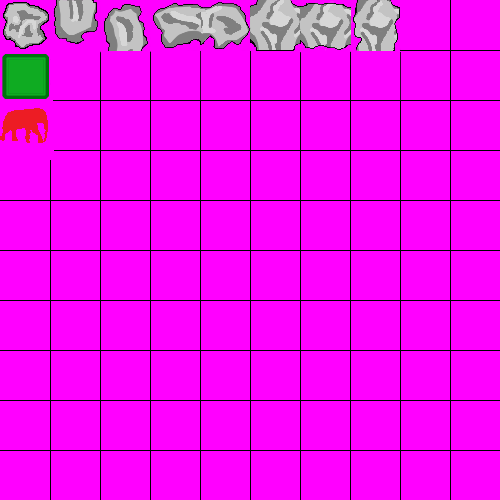
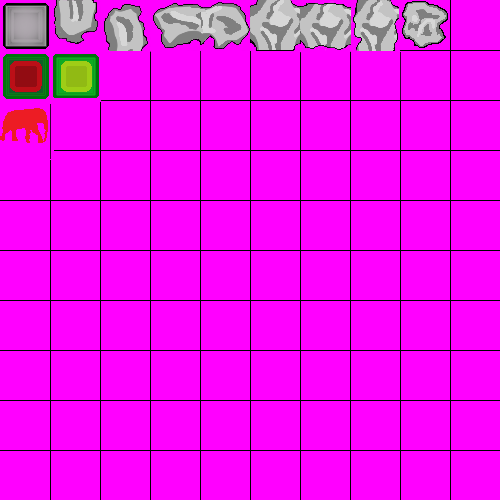
Add: Blokady w generowaniu się elementów i wykrywanie kolizji. Poprawki wizualne.

Changed region(s): [[0.0, 0.0, 0.21, 0.21], [0.78, 0.0, 0.9, 0.09]]

diff --git a/03_Python/Python/src/com/game/SinglePlay.java b/03_Python/Python/src/com/game/SinglePlay.java
@@ -9,27 +9,44 @@ public class SinglePlay extends GameState {
 
     private static final int MAX_X=10;
     private static final int MAX_Y=10;
+    private static final int SNAKE_SPEED = 300;
+    private static final int STONES_QUONTITY = 5;
 
+    //Sprajty:
     private static final Sprite allone_stone = new Sprite(0,0,50,mainSpriteSheet);
-    private static final Sprite allone_snake = new Sprite(0,1,50,mainSpriteSheet);
+    private static final Sprite up_stone = new Sprite(1,0,50,mainSpriteSheet);
+    private static final Sprite down_stone = new Sprite(2,0,50,mainSpriteSheet);
+    private static final Sprite left_stone = new Sprite(4,0,50,mainSpriteSheet);
+    private static final Sprite right_stone = new Sprite(3,0,50,mainSpriteSheet);
+    private static final Sprite all_stone = new Sprite(5,0,50,mainSpriteSheet);
+    private static final Sprite left_right_stone = new Sprite(6,0,50,mainSpriteSheet);
+    private static final Sprite up_down_stone = new Sprite(7,0,50,mainSpriteSheet);
+
+    private static final Sprite head_snake = new Sprite(0,1,50,mainSpriteSheet);
+    private static final Sprite _snake = new Sprite(1,1,50,mainSpriteSheet);
     private static final Sprite papu = new Sprite(0,2,50,mainSpriteSheet);
 
     private Python python = new Python();
+    private Stones stones = new Stones();
     private Random generator = new Random();
-    private Coordinates papuCoordinates = new Coordinates(2,2);
+    private Coordinates papuCoordinates = new Coordinates(-20,-20);
 
     private double nextMoveTime = System.currentTimeMillis();
 
     public SinglePlay(){
+        //Generowanie wenża:
         python.AddNewCoordinates(4,6);
         python.AddNewCoordinates(4,5);
         python.AddNewCoordinates(4,4);
-
+        //Generowanie przeszkód:
+        GenerateRandomStone(STONES_QUONTITY);
+        //Generowanie papu
+        GeneratePapu();
     }
     public void Update(){
-        if(System.currentTimeMillis()-nextMoveTime >= 200) {
+        UpdateKaybord(); //Odczytanie klawiszy
+        if(System.currentTimeMillis()-nextMoveTime >= SNAKE_SPEED) {
             nextMoveTime = System.currentTimeMillis();
-            UpdateKaybord(); //Odczytanie klawiszy
             SnakeMove(); //Ruch wenża
             if(DetectColision()) { //Sprawdzenie kolizji
                 while (System.currentTimeMillis() - nextMoveTime <= 3000);
@@ -42,72 +59,122 @@ public class SinglePlay extends GameState {
         singlePlayScreen.clear(Color.BLACK.getRGB());
         DrawSnake(singlePlayScreen);
         DrawPapu(singlePlayScreen);
+        DrawStones(singlePlayScreen);
     }
 
 
     private void DrawSnake(Screen singlePlayScreen){
         //Rysowanie wenża:
-        for (Coordinates cor: python.body)
-        {
-            singlePlayScreen.RenderSprite(cor.X*50, cor.Y*50, allone_snake);
+        for (int i = 0; i < python.body.size(); i++) {
+            if(i < python.body.size()-1)
+                singlePlayScreen.RenderSprite(python.body.get(i).X * 50, python.body.get(i).Y * 50, _snake);
+            else
+                singlePlayScreen.RenderSprite(python.body.get(i).X*50, python.body.get(i).Y*50, head_snake);
         }
     }
     private void DrawPapu(Screen singlePlayScreen){
         //Rysowanie papu:
             singlePlayScreen.RenderSprite(papuCoordinates.X*50, papuCoordinates.Y*50, papu);
     }
-private void  UpdateKaybord(){
+
+    private void DrawStones(Screen singlePlayScreen){
+        //Rysowanie kumieni:
+        for(Coordinates coor: stones.body) {
+            singlePlayScreen.RenderSprite(coor.X * 50, coor.Y * 50, allone_stone);
+        }
+    }
+
+    private void  UpdateKaybord(){
     //Aktualizacja kierunku
     if(Keyboard.keys[KeyEvent.VK_UP] && python.actualDirection != 2)
-        python.actualDirection = 1;
+        python.newActualDirection = 1;
     if(Keyboard.keys[KeyEvent.VK_DOWN] && python.actualDirection != 1)
-        python.actualDirection = 2;
+        python.newActualDirection = 2;
     if(Keyboard.keys[KeyEvent.VK_LEFT] && python.actualDirection != 4)
-        python.actualDirection = 3;
+        python.newActualDirection = 3;
     if(Keyboard.keys[KeyEvent.VK_RIGHT] && python.actualDirection != 3)
-        python.actualDirection = 4;
+        python.newActualDirection = 4;
 }
+
+    private void GenerateRandomStone(int quontity){
+        int temp_X = 0,temp_Y = 0;
+
+        for(int q =0; q<quontity; q++) {
+            boolean corect = false;
+            while (corect == false) {
+                temp_X = generator.nextInt(9);
+                temp_Y = generator.nextInt(9);
+                corect = true;
+                for (int i = 0; i < python.body.size() - 1; i++) {
+                    if (temp_X == python.body.get(i).X && temp_Y == python.body.get(i).Y)
+                        corect = false;
+                }
+                for(int j = 0; j < stones.body.size() - 1; j++) {
+                    if (temp_X == stones.body.get(j).X && temp_Y == stones.body.get(j).Y)
+                        corect = false;
+                }
+                if((temp_X == 4 && temp_Y == 3) || (temp_X == 4 && temp_Y == 2) )
+                    corect = false;
+            }
+            stones.AddNewCoordinates(temp_X, temp_Y);
+            //System.out.println(temp_X +" - "+ temp_Y);
+
+        }
+    }
 
     private void SnakeMove(){
         int temp_X = python.body.get(python.body.size()-1).X;
         int temp_Y = python.body.get(python.body.size()-1).Y;
 
         //Ruch
-        if(python.actualDirection == 1) {
+        if(python.newActualDirection == 1) {
             if (temp_Y == 0) temp_Y = MAX_Y;
             temp_Y = temp_Y- 1;
             python.AddNewCoordinates(temp_X, temp_Y);
+            python.actualDirection =1;
         }
-        if(python.actualDirection == 2) {
+        if(python.newActualDirection == 2) {
             if(temp_Y==MAX_Y-1) temp_Y = -1;
             temp_Y = temp_Y + 1;
             python.AddNewCoordinates(temp_X, temp_Y);
+            python.actualDirection =2;
         }
-        if(python.actualDirection == 3) {
+        if(python.newActualDirection == 3) {
             if(temp_X==0) temp_X = MAX_X;
             temp_X = temp_X - 1;
             python.AddNewCoordinates(temp_X, temp_Y);
+            python.actualDirection =3;
         }
-        if(python.actualDirection == 4) {
+        if(python.newActualDirection == 4) {
             if(temp_X==MAX_X-1) temp_X = -1;
             temp_X = temp_X + 1;
             python.AddNewCoordinates(temp_X, temp_Y);
+            python.actualDirection =4;
         }
 
         //Usunięcie końca wenża:
-        boolean ok = false;
+
         if(temp_X == papuCoordinates.X && temp_Y == papuCoordinates.Y ) {
-            while (ok == false) {
-                papuCoordinates.X = generator.nextInt(9);
-                papuCoordinates.Y = generator.nextInt(9);
-                ok = true;
-                for (Coordinates coor : python.body) {
-                    if (papuCoordinates.X == coor.X && papuCoordinates.Y == coor.Y)
-                    ok = false;
-                }
-            }
+            GeneratePapu();
         }
         else python.DeleteLastCoordinates();
+    }
+
+    private void GeneratePapu(){
+        boolean ok = false;
+        while (ok == false) {
+            papuCoordinates.X = generator.nextInt(9);
+            papuCoordinates.Y = generator.nextInt(9);
+            ok = true;
+            for (Coordinates coor : python.body) {
+                if (papuCoordinates.X == coor.X && papuCoordinates.Y == coor.Y)
+                    ok = false;
+            }
+            for(int j = 0; j < stones.body.size(); j++) {
+                if (papuCoordinates.X == stones.body.get(j).X && papuCoordinates.Y == stones.body.get(j).Y)
+                    ok = false;
+            }
+        }
     }
 
     private boolean DetectColision(){
@@ -115,6 +182,10 @@ private void  UpdateKaybord(){
         int temp_Y = python.body.get(python.body.size()-1).Y;
         for(int i=0; i<python.body.size()-2; i++){
             if (temp_X == python.body.get(i).X && temp_Y == python.body.get(i).Y )
+                return true;
+        }
+        for(int i=0; i<stones.body.size(); i++){
+            if (temp_X == stones.body.get(i).X && temp_Y == stones.body.get(i).Y )
                 return true;
         }
         return false;

diff --git a/03_Python/Python/src/com/game/Stones.java b/03_Python/Python/src/com/game/Stones.java
@@ -1,12 +1,13 @@
 package com.game;
 
-import java.util.ArrayList; // import the ArrayList class
+import java.util.ArrayList;
 
-public class Python {
-   public ArrayList<Coordinates> body = new ArrayList<Coordinates>();
-   public int actualDirection= 1;
-   public int newActualDirection= 1;
+public class Stones {
+    public ArrayList<Coordinates> body = new ArrayList<Coordinates>();
 
+    public Stones(){
+
+    }
     public void AddNewCoordinates(int x, int y){
         Coordinates coordinates = new Coordinates(x,y);
         body.add(coordinates);
@@ -17,5 +18,4 @@ public class Python {
     public void DeleteLastCoordinates(){
         body.remove(0);
     }
-
 }

diff --git a/03_Python/Python/src/com/game/Game.java b/03_Python/Python/src/com/game/Game.java
@@ -107,20 +107,6 @@ public class Game extends Canvas implements Runnable {
         Stop();
     }
 
-    // @Override
-   // public void keyTyped(KeyEvent e) {
-
-    //}
-   // @Override
-   // public void keyPressed(KeyEvent e) {
-    //    Keyboard.actualKeyboardChar = e.getKeyChar();
-    //}
-
-   // @Override
-   // public void keyReleased(KeyEvent e) {
-
-    //}
-
 }
 
 
